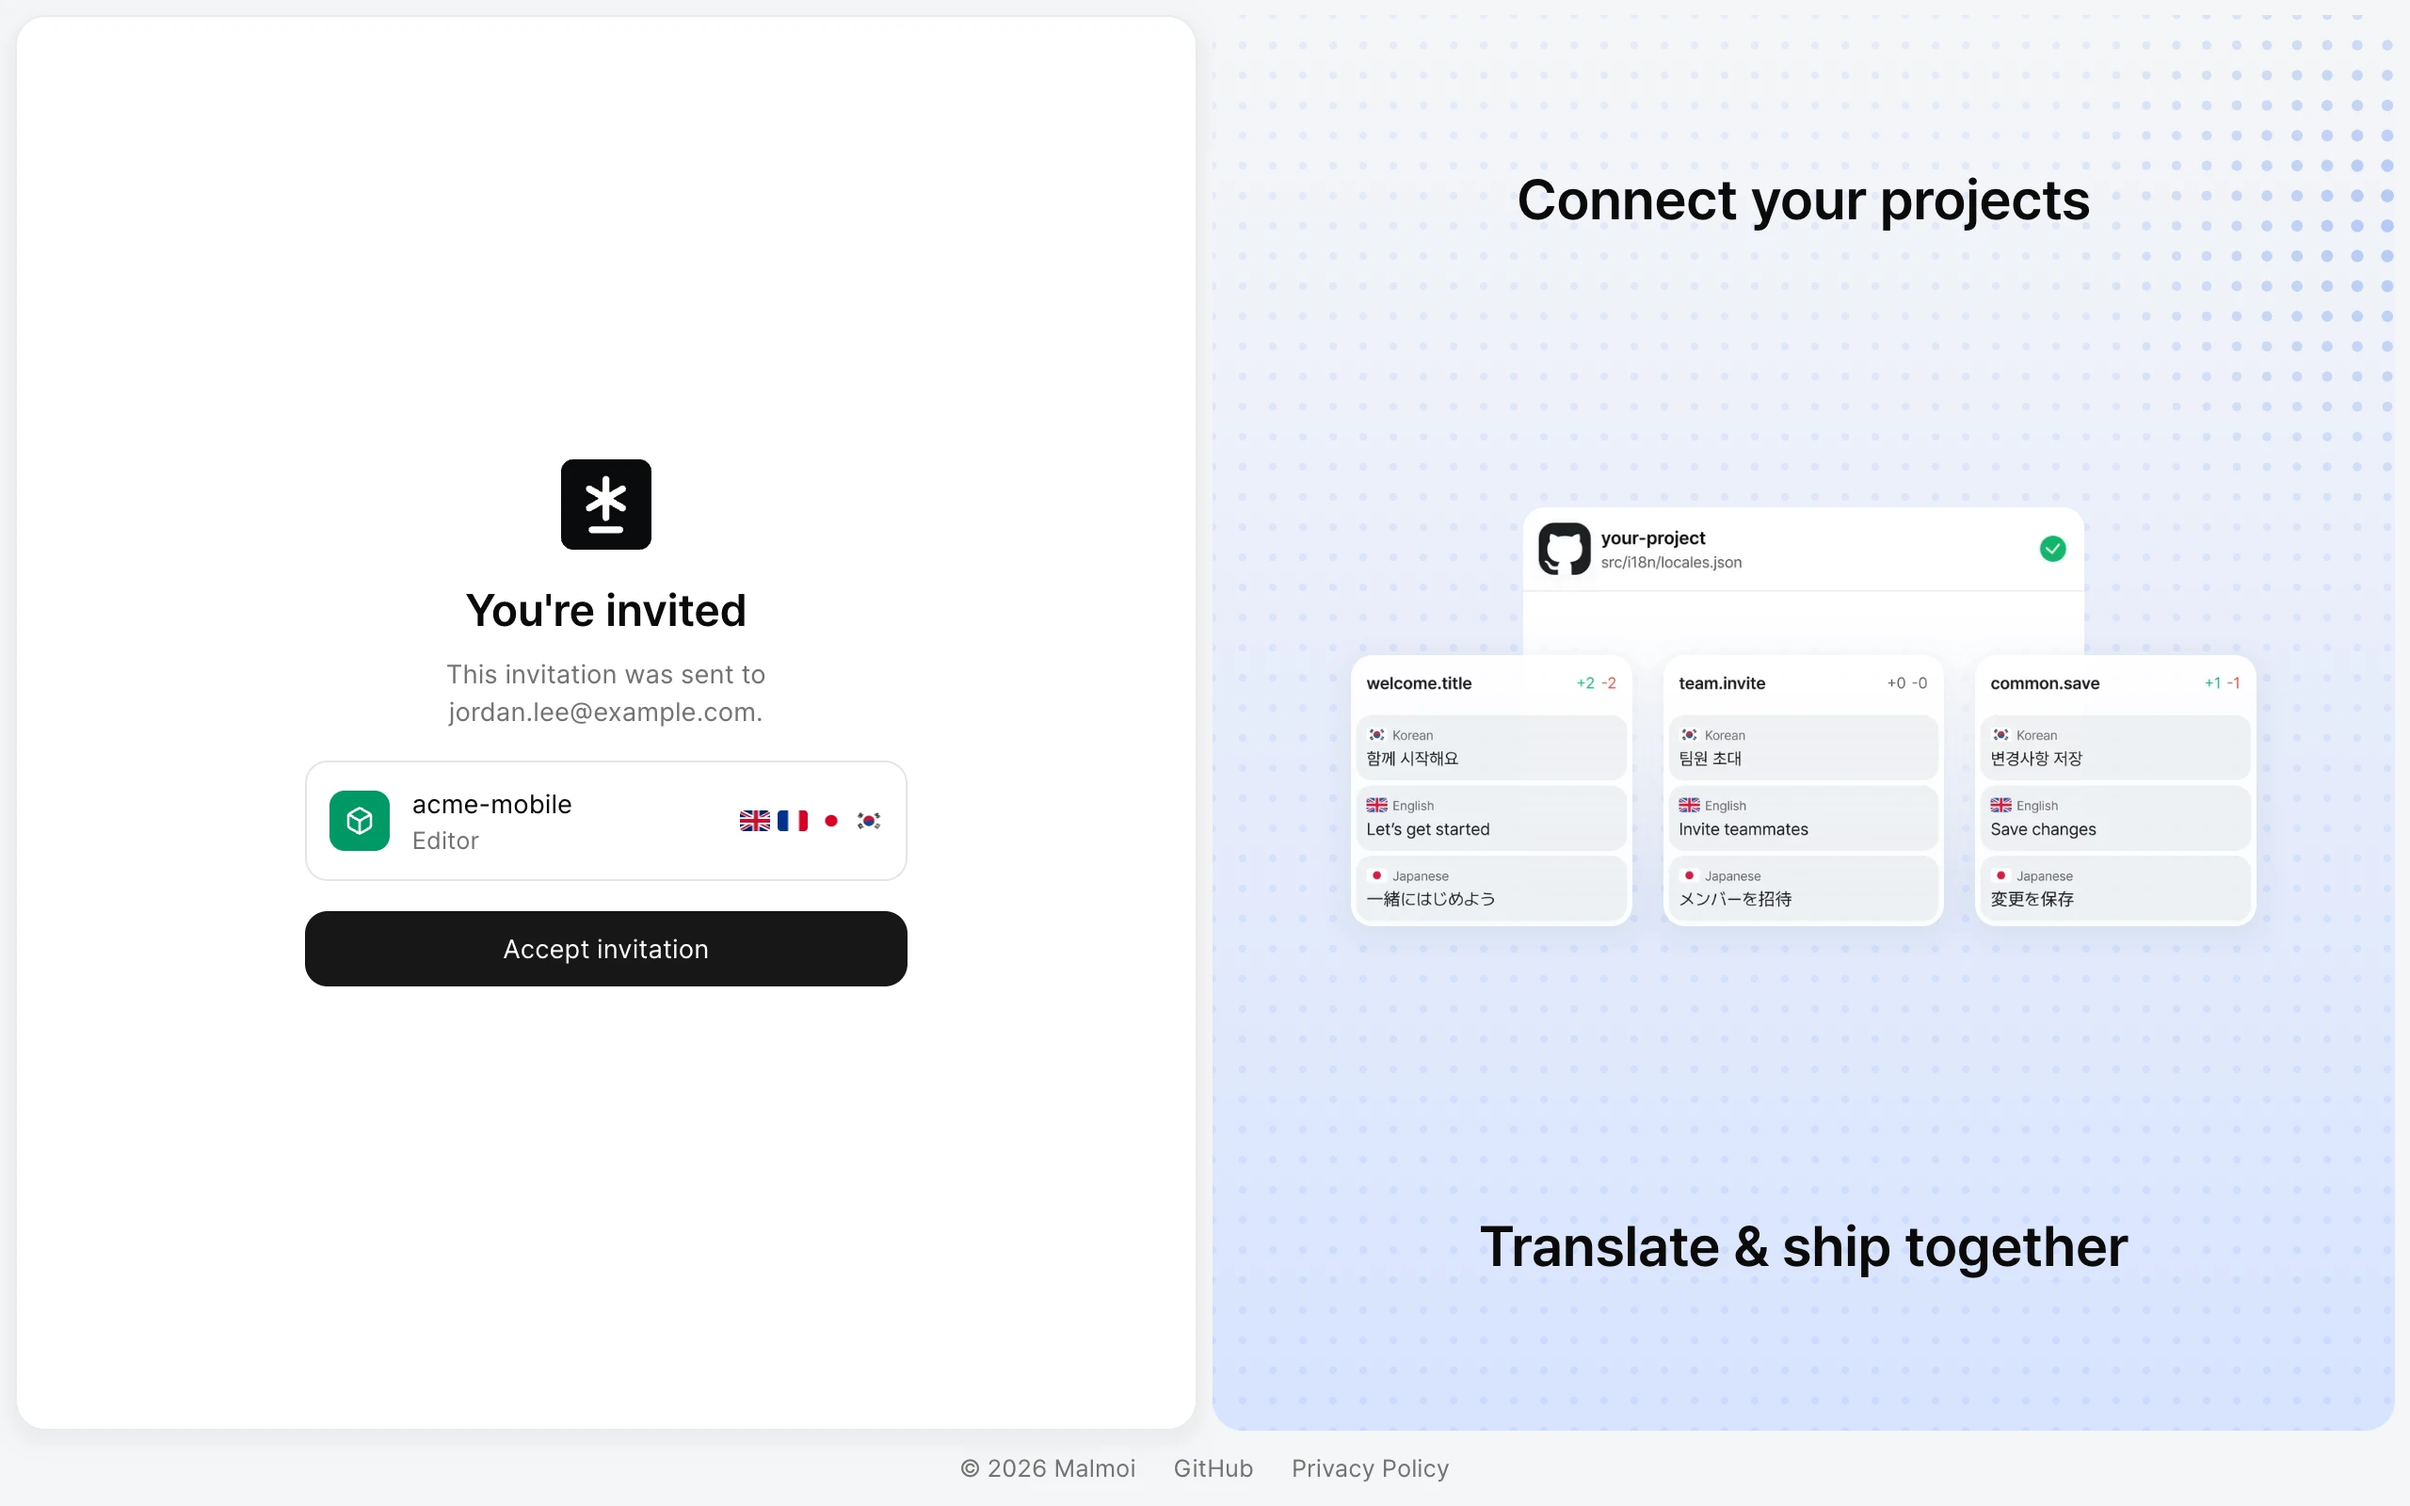
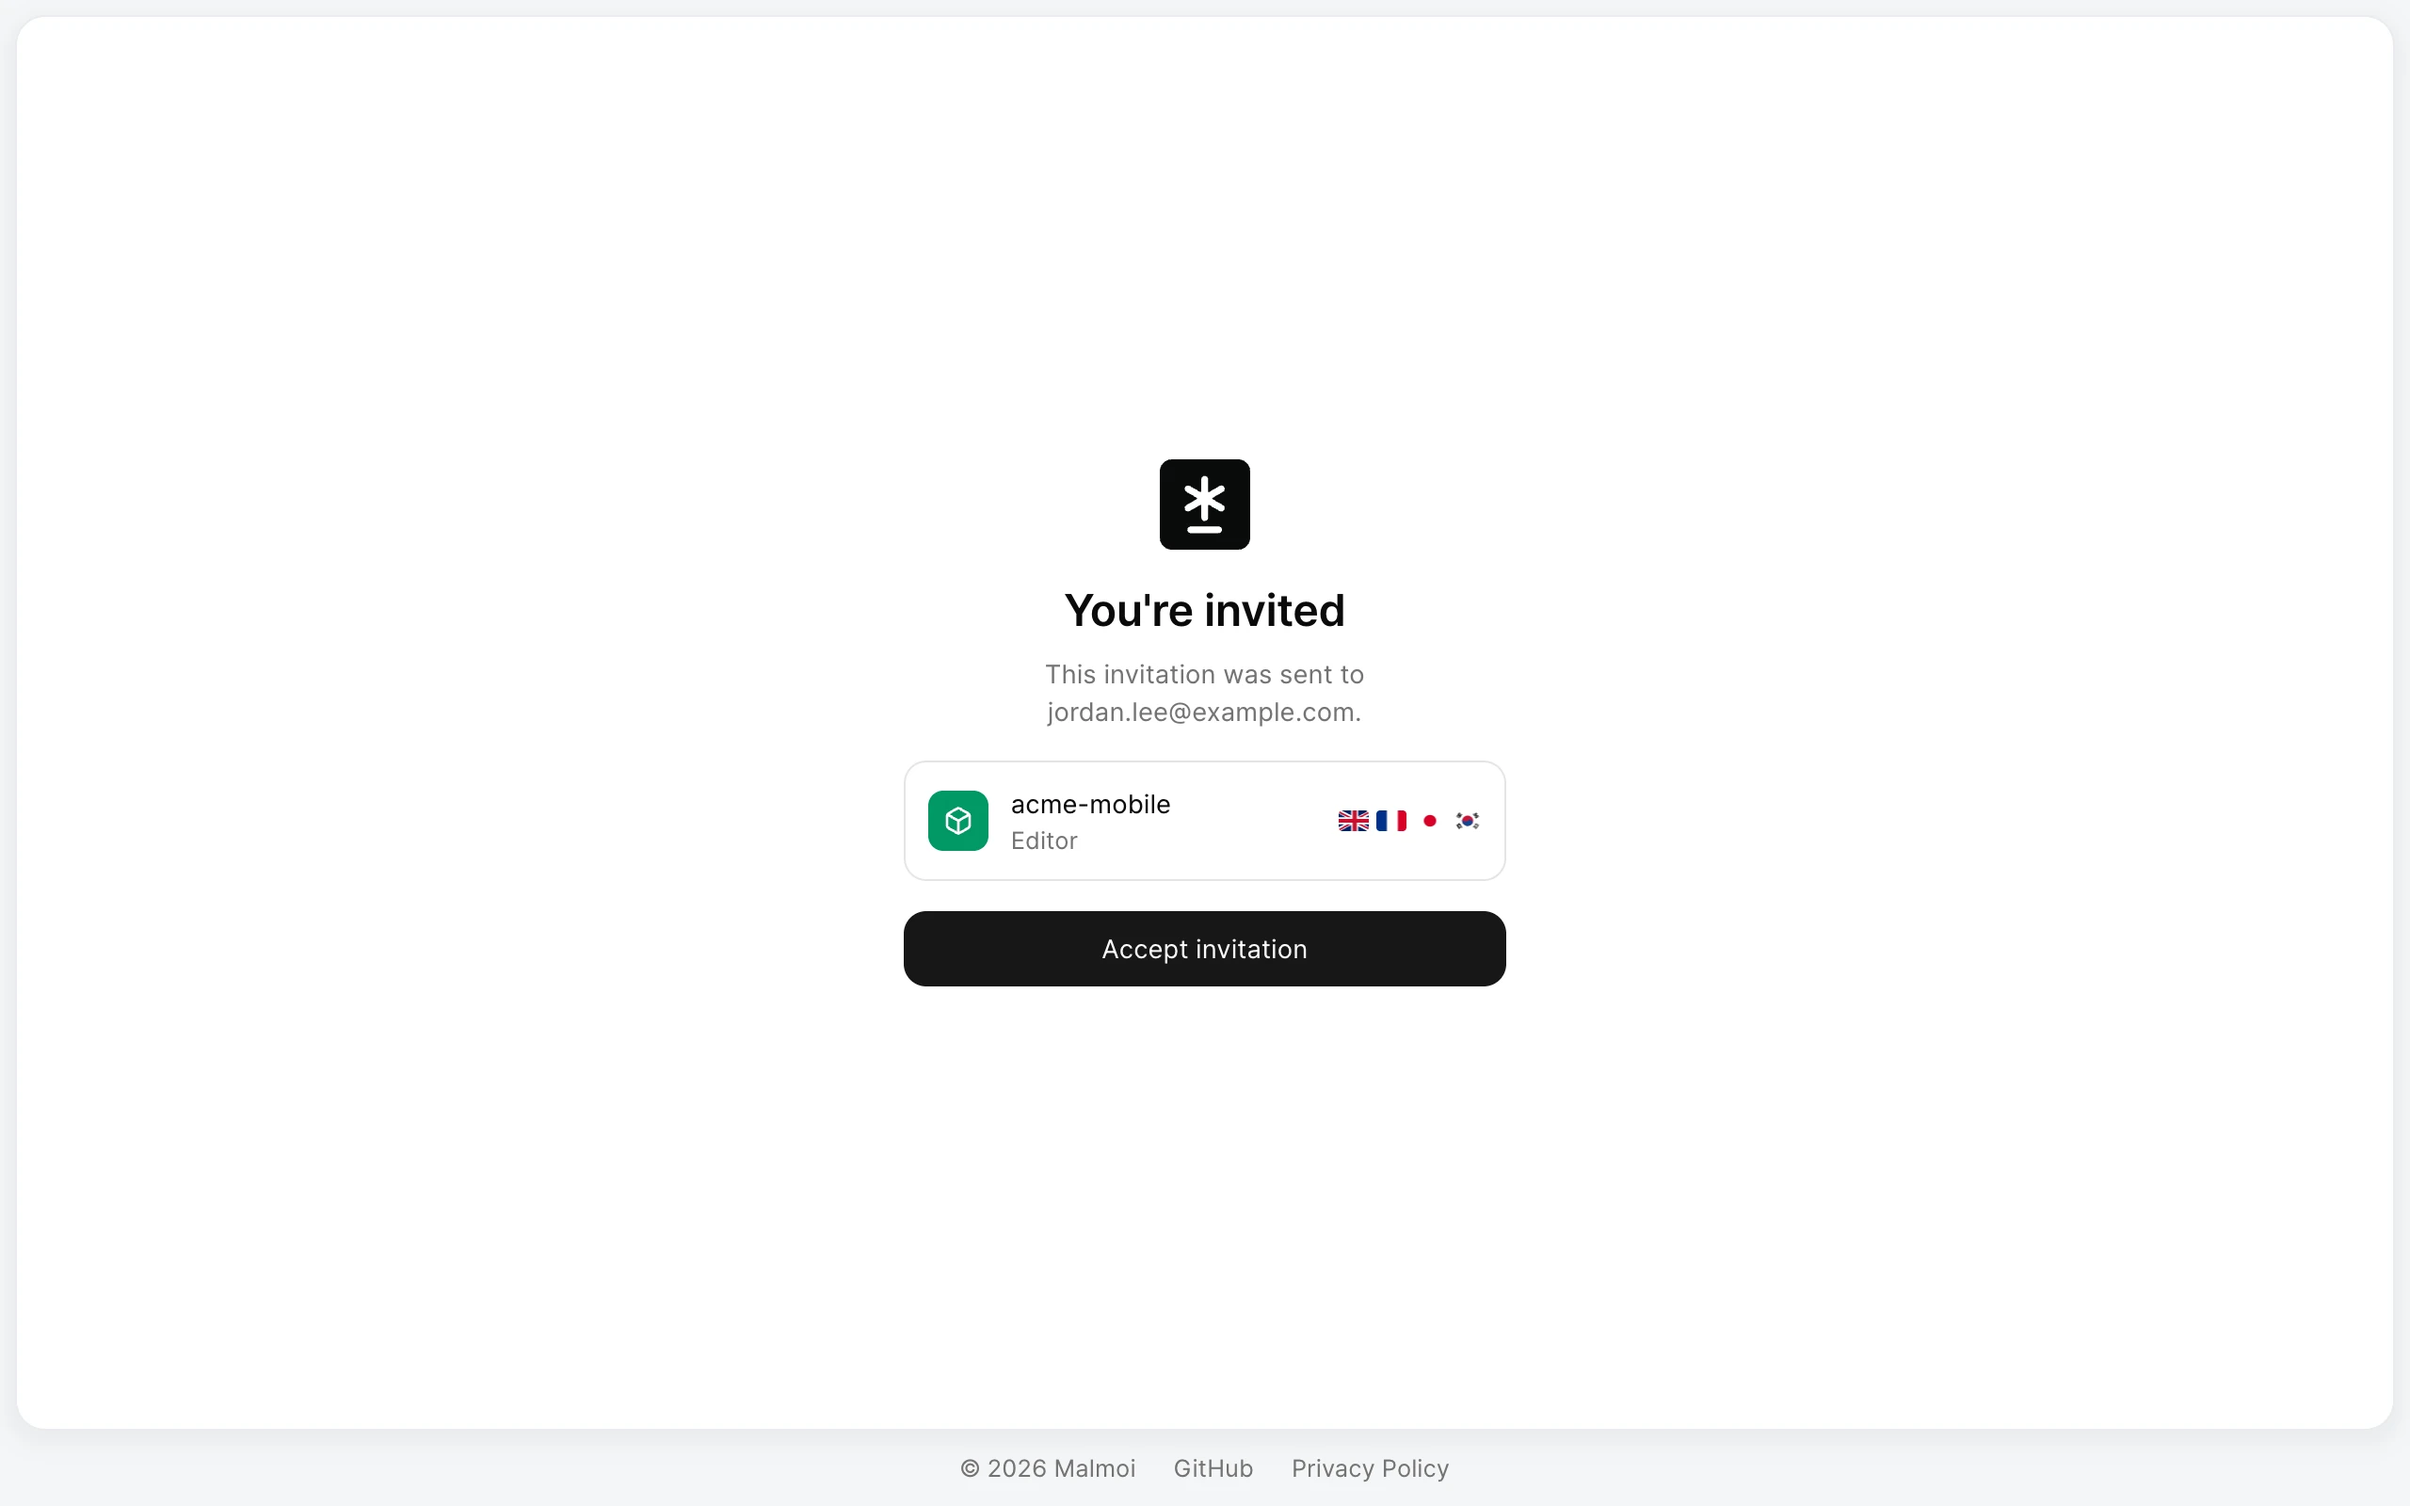
docs(guide): recapture accept-invitation on the single panel

diff --git a/guide/SHOOTING.md b/guide/SHOOTING.md
@@ -94,7 +94,7 @@
 | /guide/sources.webp | components/sources/sources-screen.tsx, components/sources/source-status.tsx | b19fe7e08e1e0e1eeb82dc6e273e13e6354faa33, 0a919f69e5584af9bf861731c25cdd85b12c8e63 | 2560x1600 |
 | /guide/add-sources.webp | components/sources/add-sources-modal.tsx | ca027d458d6e483d6702243847828090c9ad9d05 | 2560x1600 |
 | /guide/archive-card.webp | components/settings/archive-card.tsx | b16198f250b8322cffa1938286fb2814189851c3 | 2560x1600 |
-| /guide/accept-invitation.webp | app/invite/[token]/page.tsx, components/invite/project-card.tsx | f52c60923f6a8391492807fdf92bb8b473164029, f04bd2df388d5f046ad05818553e51c39fd45376 | 2560x1600 |
+| /guide/accept-invitation.webp | app/invite/[token]/page.tsx, components/invite/project-card.tsx, components/signin/auth-layout.tsx | f52c60923f6a8391492807fdf92bb8b473164029, f04bd2df388d5f046ad05818553e51c39fd45376, bd43b9b7ebe1d5fe8e8df04b6d083cfdf4e5cc04 | 2560x1600 |
 | /guide/state-filter.webp | components/translations/workspace/filter-menu.tsx | 8122e89e1cd4f89a9de260f4d4eb875822d168dd | 2560x1600 |
 | /guide/home-publish.webp | app/(edit)/projects/[slug]/(home)/page.tsx, components/home/count-cards.tsx, components/publish-button.tsx | 4174b3928c6ed77494331c9f9271916d08020573, cd1ba61b1b8896bbb609c8abe427d58e48205709, 5da54cab3106be7df63d6093f2d28c42f2b643d5 | 2560x1600 |
 | /guide/publish-result.webp | components/publish-button.tsx | 5da54cab3106be7df63d6093f2d28c42f2b643d5 | 2560x1600 |
@@ -137,3 +137,4 @@
 - 2026-09-29 **컷 17장 추가 + 셸 컷 재촬영**(사용자 — "add more screenshots all over the docs"). 추가: `project-home` · `invite-members` · `members` · `sources` · `add-sources` · `archive-card` · `accept-invitation` · `state-filter` · `home-publish` · `publish-result` · `home-paused` · `revert-confirm` · `sync-discard` · `logs-event` · `account` · `mcp-create-token` · `mcp-connector`. 재촬영: stale 셋(`workflow-file` · `translation-editor` · `publish-preview`) — LNB에 MCP 로고 `MCP connector`가 선 셸 — 과 README 두 장(`hero` · `logs`, `logs`는 Kind: Publish로 거른 목록). GitHub 화면 둘(`push-token-secret` · `actions-policy`)은 셸이 없어 그대로다. 건너뜀: `setup/create-project.md`(①–③은 위 상한 벽, ④ `Malmoi is ready`는 벽 + 버튼 문구 변경 예정이라 지휘자가 제외). 초대 수락 컷은 dev DB에 초대 1건을 심어 찍고 수락 없이 id로 지웠다. 편집·Publish 흔적: `common.cancel` fr · `EXT_NAME` fr · `cancelConfirm.body` fr을 각각 원래 값으로 되돌렸고 미전달 0, Logs에 편집·`Nothing changed` Publish 2건·Revert 1건이 남았다(사건은 지우지 않는다).
 - 2026-09-29 `api-url`(생성 워크플로가 프로덕션 밖에서만 `api-url` 한 줄을 싣는다) — `workflow.ts` 변경으로 `push-token-secret`·`workflow-file`·`actions-policy`가 stale — 세 컷은 프로덕션 출력(변화 없음)이라 **재촬영 없이 blob SHA만 갱신**했다.
 - 2026-09-29 (같은 날, 사용자 지시) `setup/create-project.md` ①–③ 세 장 추가(`create-repository` · `create-files` · `create-name`) — `i18n-order-check`를 보관해 상한 자리를 만들고 촬영 뒤 복원했다. ④는 여전히 건너뜀.
+- 2026-09-29 `/guide/accept-invitation.webp` 재촬영 — 셸 밖 골격이 `/signin` 외엔 장식 없는 단일 패널이 됐다(`AuthLayout`의 `decoration`). 변경이 `auth-layout.tsx` 안에서 끝나 `guide:check`가 못 잡았으므로 그 파일을 매핑 소스에 더했다. 초대는 전과 같이 dev DB에 1건(`i18n-order-check`, EDITOR 주소)을 사건 없이 심어 찍고 수락 없이 id로 지웠다. EDITOR 세션에서 `accept` 상태, 이메일은 마스킹된 `o***@…` 꼴이라 `*`까지 잡는 치환이 필요했다.
